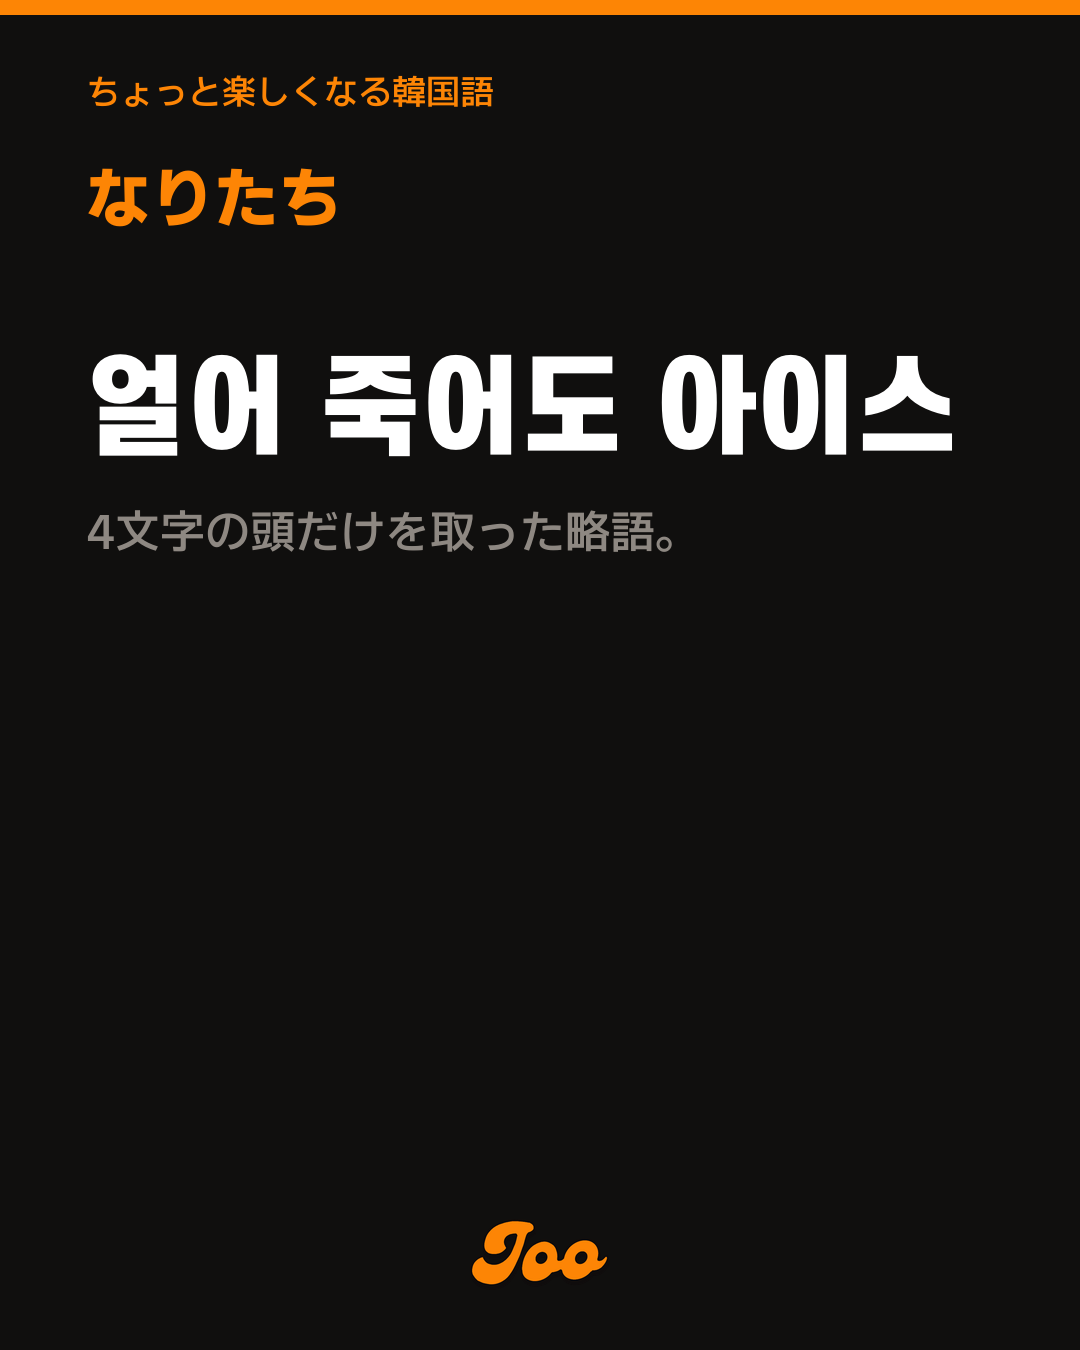
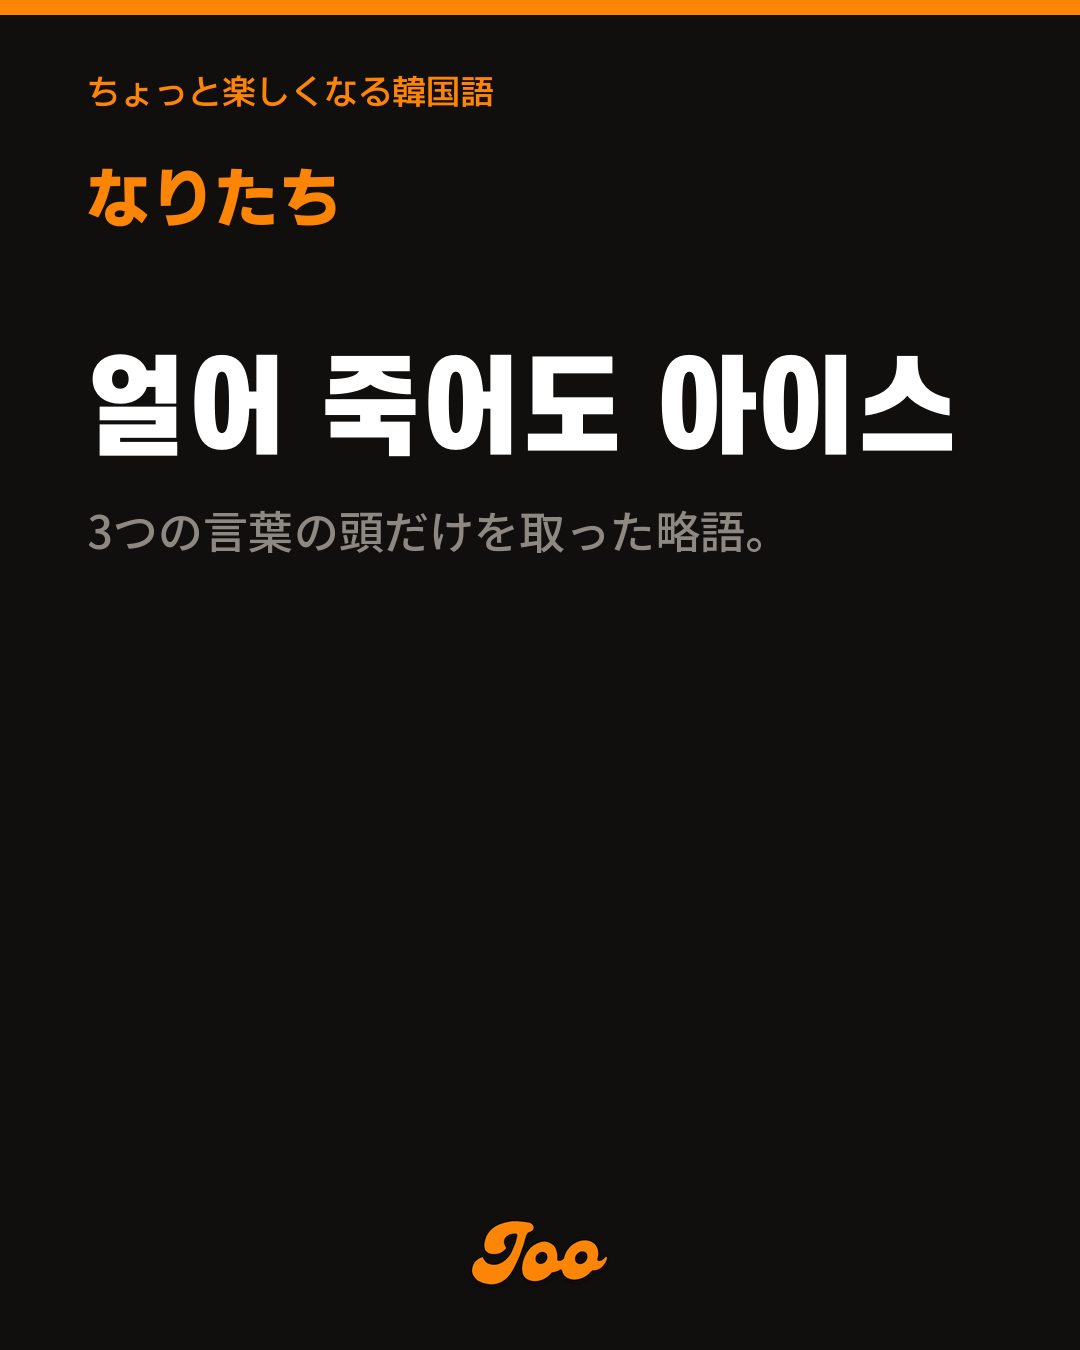
5일차 이미지 수정: 4文字 → 3つの言葉 (3번째 카드)
Claude-Session: https://claude.ai/code/session_014KcaNubLYfQzBws3QcAx4A

Changed region(s): [[0.0611, 0.3733, 0.7028, 0.4044]]

diff --git a/상태.md b/상태.md
@@ -44,6 +44,6 @@
 
 ## 내용 검수 (10/15)
 31일치를 전부 읽어 요미·뜻을 확인했다. 아래 3건을 고쳤다(계획.json·캡션 반영 완료).
-- Day 5 얼죽아: "4文字の頭" → "3つの言葉の頭". **이미지 d05_insta_*.png 는 아직 옛 문구 — 맥에서 다시 만들어야 함(10/17 발행 전)**
+- Day 5 얼죽아: "4文字の頭" → "3つの言葉の頭". 이미지 d05_insta_02.png 도 해당 줄만 다시 그려 반영함(10/15). 유튜브용 정사각형 d05 는 맥 쪽 파일이라 별도
 - Day 1 카페: 예문 "따뜻한 거로" → "따뜻한 걸로". 이미 올라간 게시물(10/13)은 못 고친다
 - Day 6 깎아 주세요 요미: ッカッカ로 바꿨다가 되돌림. 어절 첫 된소리 5개 중 ッ가 붙은 건 꾸안꾸뿐이라 `カッカ`가 다수 표기. 표기를 통일할지는 사장님이 정함(이미지 재생성 불필요)
